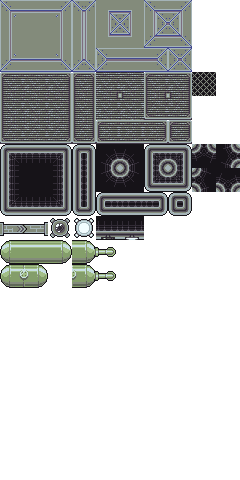
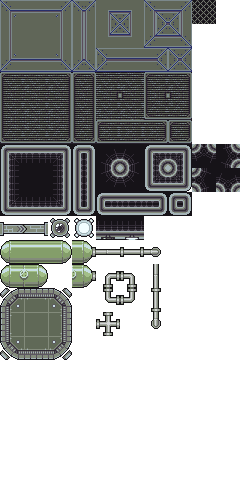
Added Damaging and other stuff

diff --git a/src/com/dddbomber/bgj/entity/Werewolf.java b/src/com/dddbomber/bgj/entity/Werewolf.java
@@ -1,5 +1,7 @@
 package com.dddbomber.bgj.entity;
 
+import java.util.Random;
+
 import com.dddbomber.bgj.assets.Asset;
 import com.dddbomber.bgj.assets.Screen;
 import com.dddbomber.bgj.input.InputHandler;
@@ -12,17 +14,57 @@ public class Werewolf extends Enemy{
 		xSize = 16;
 		ySize = 16;
 	}
+
+	public int anim, animDelay;
+	
+	public int targetX, targetY;
+	public double angleTo = 0;
+	public boolean seenPlayer = false;
+	
+	Random random = new Random();
 	
 	public void tick(InputHandler input, Room room){
-		double angleTo = Math.atan2(room.player.x+8-x-8, room.player.y+8-y-8);
-		x += Math.sin(angleTo)*0.25;
-		y += Math.cos(angleTo)*0.25;
+		if(seenPlayer){
+			targetX = (int) (room.player.x+8);
+			targetY = (int) (room.player.y+8);
+		}else{
+			if(random.nextInt(250)==0){
+				changeTarget();
+			}
+		}
+		double targetAngle = Math.atan2(targetX-x-8, targetY-y-8);
+		if(angleTo < targetAngle-1){
+			angleTo+=0.01;
+		}else if(angleTo > targetAngle+1){
+			angleTo+=0.01;
+		}
+
+		double xm = Math.sin(angleTo)*0.25;
+		double ym = Math.cos(angleTo)*0.25;
+		
+		if(canPass(room, xm, ym)){
+			x += xm;
+			y += ym;
+		}else{
+			changeTarget();
+		}
+
+		animDelay++;
+		if(animDelay > 7){
+			animDelay = 0;
+			anim++;
+			if(anim >= 8)anim = 0;
+		}
+	}
+	
+	public void changeTarget(){
+		targetX = (int) (x + random.nextInt(21)-10);
+		targetY = (int) (y + random.nextInt(21)-10);
 	}
 	
 	public void render(Screen screen, Room room){
-		double angleTo = Math.atan2(room.player.x+8-x-8, room.player.y+8-y-8);
 
-		screen.drawRotated(Asset.enemy, (int)x-16, (int)y-16, 0, 0, 48, 48, (int)(Math.toDegrees(angleTo)));
+		screen.drawRotated(Asset.enemy, (int)x-16, (int)y-16, anim%4*48, anim/4*48, 48, 48, (int)(Math.toDegrees(angleTo)));
 		
 	}
 }

diff --git a/src/com/dddbomber/bgj/room/TeleporterTile.java b/src/com/dddbomber/bgj/room/TeleporterTile.java
@@ -1,0 +1,34 @@
+package com.dddbomber.bgj.room;
+
+import com.dddbomber.bgj.assets.Asset;
+import com.dddbomber.bgj.assets.Screen;
+
+public class TeleporterTile extends Tile {
+
+	public void render(Screen screen, Room room, int xt, int yt){
+        screen.draw(Asset.tiles, xt*24, yt*24, 24, 96, 24, 24);
+		
+		Tile ut = room.getTile(xt, yt-1),
+				dt = room.getTile(xt, yt+1),
+				lt = room.getTile(xt-1, yt),
+				rt = room.getTile(xt+1, yt);
+
+		boolean u = ut != this,
+				d = dt != this, 
+				l = lt != this, 
+				r = rt != this;
+
+		if(u && l)screen.draw(Asset.tiles, xt*24, yt*24, 0, 288, 24, 24);
+		else if(u && r)screen.draw(Asset.tiles, xt*24, yt*24, 48, 288, 24, 24);
+		else if(u)screen.draw(Asset.tiles, xt*24, yt*24, 24, 288, 24, 24);
+
+		else if(d && l)screen.draw(Asset.tiles, xt*24, yt*24, 0, 336, 24, 24);
+		else if(d && r)screen.draw(Asset.tiles, xt*24, yt*24, 48, 336, 24, 24);
+		else if(d)screen.draw(Asset.tiles, xt*24, yt*24, 24, 336, 24, 24);
+		
+
+		else if(l)screen.draw(Asset.tiles, xt*24, yt*24, 0, 312, 24, 24);
+		else if(r)screen.draw(Asset.tiles, xt*24, yt*24, 48, 312, 24, 24);
+		else screen.draw(Asset.tiles, xt*24, yt*24, 24, 312, 24, 24);
+	}
+}

diff --git a/src/com/dddbomber/bgj/entity/Entity.java b/src/com/dddbomber/bgj/entity/Entity.java
@@ -1,5 +1,7 @@
 package com.dddbomber.bgj.entity;
 
+import java.awt.Rectangle;
+
 import com.dddbomber.bgj.assets.Screen;
 import com.dddbomber.bgj.input.InputHandler;
 import com.dddbomber.bgj.room.LightHandler;
@@ -10,6 +12,14 @@ public class Entity {
 	public double x, y;
 	public int xSize, ySize;
 	public boolean removed = false;
+	
+	public int health = 25;
+	
+	public boolean intersects(Entity e){
+		Rectangle tr = new Rectangle((int)x, (int)y, xSize, ySize);
+		Rectangle er = new Rectangle((int)e.x, (int)e.y, e.xSize, e.ySize);
+		return tr.intersects(er);
+	}
 	
 	public void tick(InputHandler input, Room room){
 		
@@ -37,5 +47,12 @@ public class Entity {
 			}
 		}
 		return canPass;
+	}
+
+	public void damage(double xSpeed, double ySpeed) {
+		if(health > 0){
+			health--;
+			if(health == 0)removed = true;
+		}
 	}
 }

diff --git a/src/com/dddbomber/bgj/entity/Player.java b/src/com/dddbomber/bgj/entity/Player.java
@@ -31,7 +31,13 @@ public class Player extends Entity{
 		if(input.mouse.left && shootDelay == 0){
 			shootDelay = 20;
 			double angleTo = Math.atan2(room.mouseX+4-x-8, room.mouseY+4-y-8);
-			room.entities.add(new Bullet((int)x-1, (int)y-1, Math.sin(angleTo)*5, Math.cos(angleTo)*5, Math.toDegrees(angleTo)));
+
+            int m = 16 - 24;
+            int n = 40 - 24;
+            int j = ((int) (m * Math.cos(angleTo) + n * Math.sin(angleTo))) + 24;
+            int k = ((int) (n * Math.cos(angleTo) - m * Math.sin(angleTo))) + 24;
+            
+			room.entities.add(new Bullet((int)x+j-22, (int)y+k-22, Math.sin(angleTo)*5, Math.cos(angleTo)*5, Math.toDegrees(angleTo)));
 		}
 		
 		if(ox == (int) x && oy == (int) y)return;

diff --git a/src/com/dddbomber/bgj/entity/Bullet.java b/src/com/dddbomber/bgj/entity/Bullet.java
@@ -25,8 +25,20 @@ public class Bullet extends Entity{
 		if(canPass(room, xSpeed, ySpeed)){
 			x += xSpeed;
 			y += ySpeed;
+			for(Entity e : room.entities){
+				if(!this.removed){
+					if(e instanceof Enemy){
+						if(this.intersects(e)){
+							e.damage(xSpeed, ySpeed);
+							removed = true;
+						}
+					}
+				}
+			}
 		}else{
 			removed = true;
+		}
+		if(removed){
 			room.entities.add(new BulletHit((int)x-2, (int)y-2));
 		}
 	}

diff --git a/src/com/dddbomber/bgj/room/RoomGenerator.java b/src/com/dddbomber/bgj/room/RoomGenerator.java
@@ -34,9 +34,10 @@ public class RoomGenerator {
         } else if(corner == 3){
             yo = Room.h - 4;
         }
+        
         for(int x = 0; x < 3; x++){
             for(int y = 0; y < 3; y++){
-                room.tiles[(x + xo)+(y + yo)*Room.w] = Tile.spawnTile.id;
+                room.tiles[(x + xo)+(y + yo)*Room.w] = Tile.teleporter.id;
             }
         }
         for(int y = 0; y < 3; y++){

diff --git a/src/com/dddbomber/bgj/room/Tile.java b/src/com/dddbomber/bgj/room/Tile.java
@@ -12,6 +12,9 @@ public class Tile {
     public static Tile lightOff = new LightTile(false).setSolid().setDec();
 	public static Tile tank = new TankTile(0).setSolid().setDec();
     public static Tile spawnTile = new SpawnTile();
+    
+
+    public static Tile teleporter = new TeleporterTile();
 
 	public int id;
 	

diff --git a/src/com/dddbomber/bgj/room/SpawnTile.java b/src/com/dddbomber/bgj/room/SpawnTile.java
@@ -6,6 +6,6 @@ import com.dddbomber.bgj.assets.Screen;
 public class SpawnTile extends Tile{
 
 	public void render(Screen screen, Room room, int xt, int yt){
-        screen.draw(Asset.tiles, xt*24, yt*24, 192, 72, 24, 24);
+        screen.draw(Asset.tiles, xt*24, yt*24, 192, 0, 24, 24);
 	}
 }
